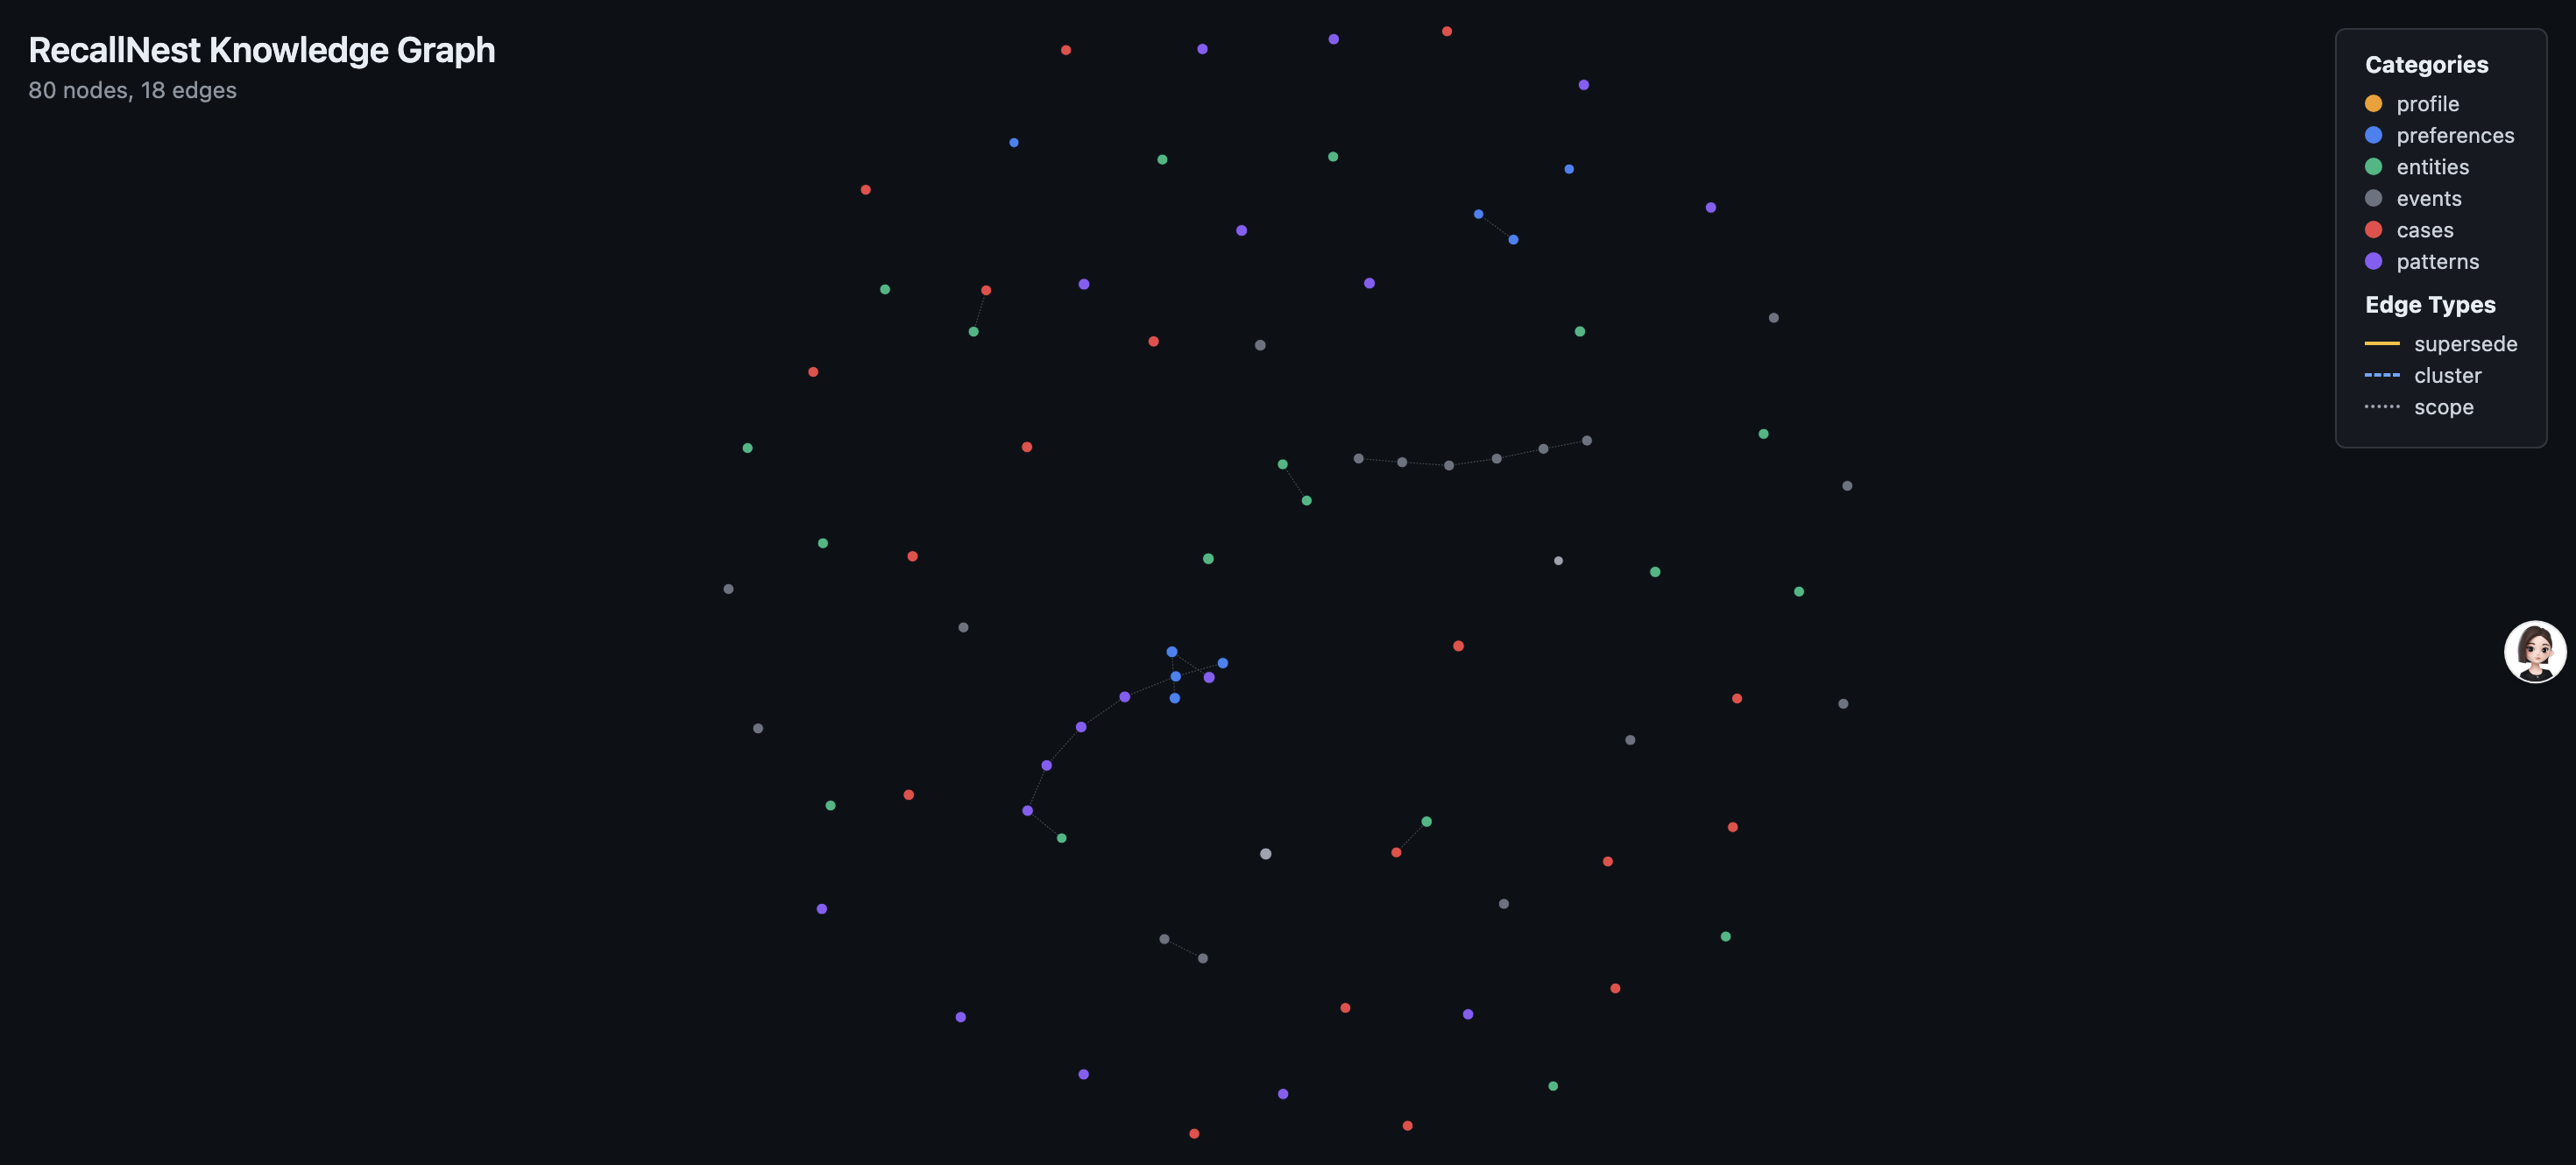
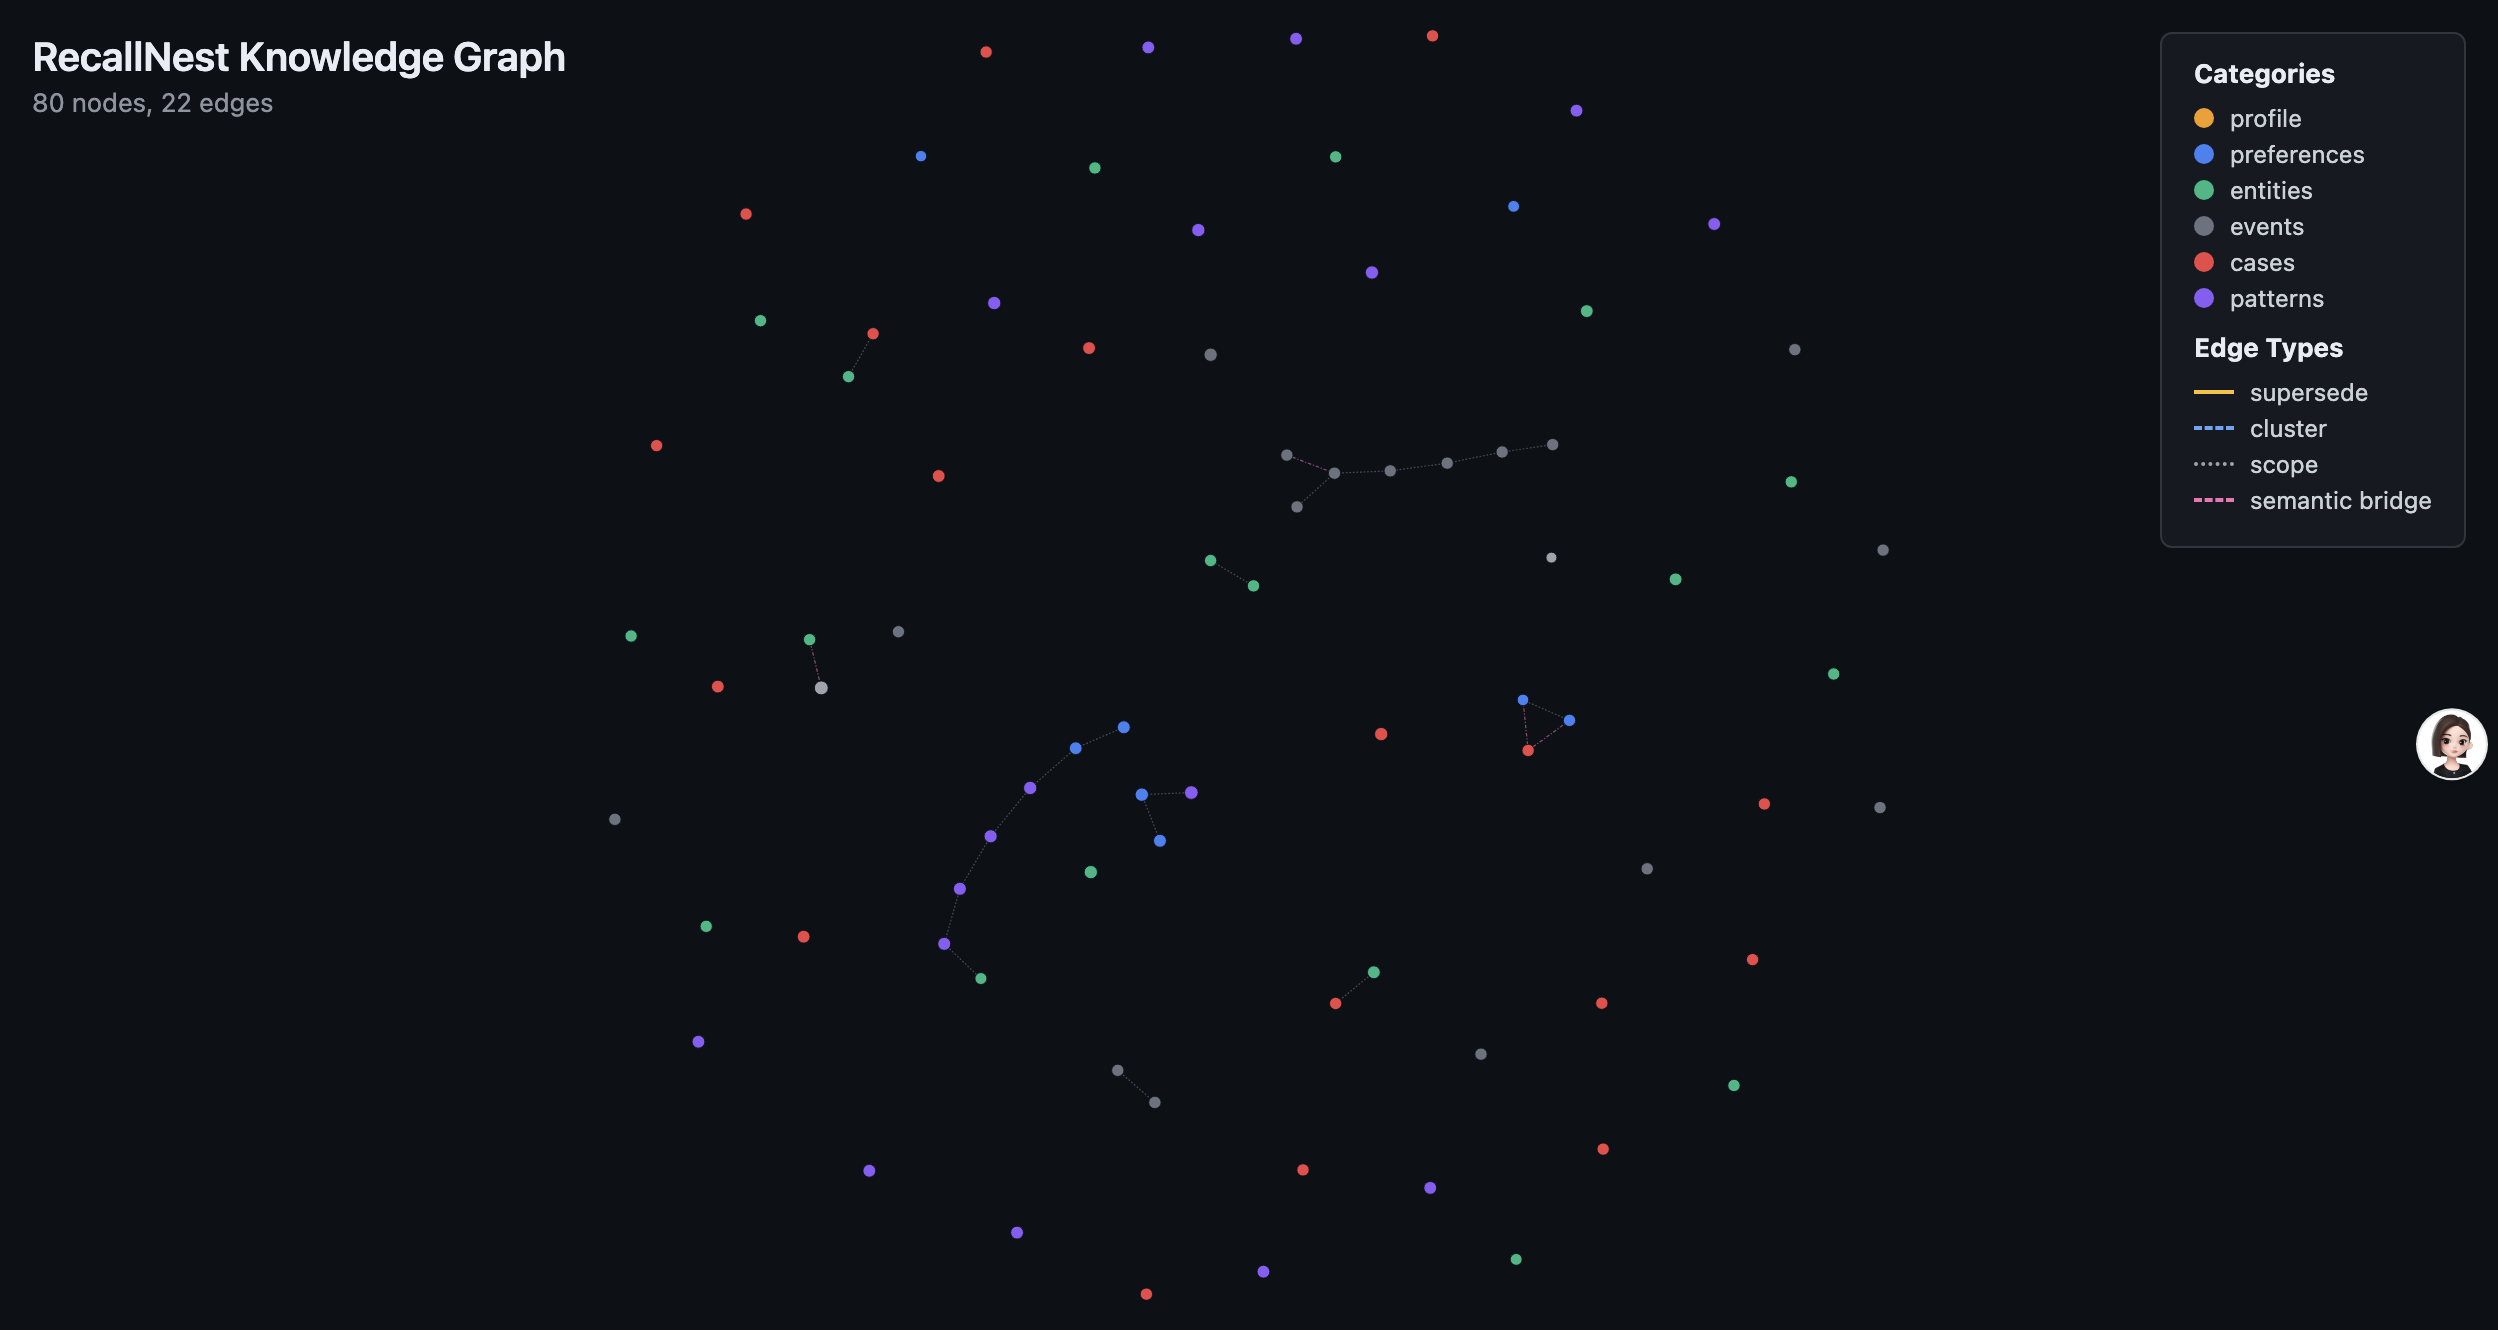
feat: cross-scope semantic bridges in knowledge graph
Add semantic bridge edges that connect memory entries across different
scopes when their vector similarity exceeds 0.65. Reveals hidden
cross-domain knowledge connections (e.g., a preference in one project
linking to a real case in another).

- Add getVectors() batch method to MemoryStore (single LanceDB query)
- Semantic bridge computation in buildMemoryGraph with top-30 cap
- Pink dash-dot edge style (#f472b6) + legend entry
- 7 new tests covering bridge creation, same-scope exclusion, threshold, cap
- Real data: 4 bridges found across 80 nodes (轮巡决策↔对话, OpenClaw偏好↔案例, etc.)

diff --git a/src/__tests__/graph-export.test.ts b/src/__tests__/graph-export.test.ts
@@ -35,10 +35,19 @@ function makeEntry(overrides: Partial<MemoryEntry> & { id: string }): MemoryEntr
   };
 }
 
-function createMockStore(entries: MemoryEntry[]): Pick<MemoryStore, "list"> {
+function createMockStore(entries: MemoryEntry[]): Pick<MemoryStore, "list"> & Partial<Pick<MemoryStore, "getVectors">> {
   return {
     async list() { return entries; },
-  } as Pick<MemoryStore, "list">;
+    async getVectors(ids: string[]) {
+      const map = new Map<string, number[]>();
+      for (const e of entries) {
+        if (ids.includes(e.id) && e.vector?.length > 0) {
+          map.set(e.id, e.vector);
+        }
+      }
+      return map;
+    },
+  };
 }
 
 // ---------------------------------------------------------------------------
@@ -366,5 +375,115 @@ describe("formatGraphExportResult", () => {
     expect(result).toContain("Nodes: 0");
     expect(result).toContain("Edges: 0");
     expect(result).toContain("none");
+  });
+
+  it("shows semantic bridge count when present", () => {
+    const graph: MemoryGraph = {
+      nodes: [],
+      edges: [
+        { source: "a", target: "b", type: "semantic" },
+        { source: "c", target: "d", type: "semantic" },
+        { source: "e", target: "f", type: "scope" },
+      ],
+    };
+    const result = formatGraphExportResult("/tmp/test.html", graph);
+    expect(result).toContain("2 semantic bridges");
+  });
+});
+
+// ---------------------------------------------------------------------------
+// Cross-Scope Semantic Bridges
+// ---------------------------------------------------------------------------
+
+describe("cross-scope semantic bridges", () => {
+  // Helper: create a normalized vector in a specific direction
+  function dirVector(index: number, dim = 8): number[] {
+    const v = new Array(dim).fill(0);
+    v[index] = 1;
+    return v;
+  }
+
+  // Helper: create a vector that's a blend (for high cosine similarity)
+  function blendVector(a: number[], b: number[], ratio = 0.5): number[] {
+    const v = a.map((_, i) => a[i] * ratio + b[i] * (1 - ratio));
+    const norm = Math.sqrt(v.reduce((s, x) => s + x * x, 0));
+    return v.map(x => x / (norm || 1));
+  }
+
+  it("creates semantic edges between similar entries in different scopes", async () => {
+    const sharedVec = dirVector(0);
+    const entries = [
+      makeEntry({ id: "s1-a", scope: "scope-writing", vector: sharedVec, text: "good titles need cognitive gap" }),
+      makeEntry({ id: "s2-a", scope: "scope-ai-tools", vector: sharedVec, text: "prompts need surprise element" }),
+    ];
+    const store = createMockStore(entries);
+    const graph = await buildMemoryGraph(store, { maxNodes: 100 });
+
+    const semanticEdges = graph.edges.filter(e => e.type === "semantic");
+    expect(semanticEdges.length).toBe(1);
+    expect(semanticEdges[0].source).toBe("s1-a");
+    expect(semanticEdges[0].target).toBe("s2-a");
+  });
+
+  it("does NOT create semantic edges within the same scope", async () => {
+    const sharedVec = dirVector(0);
+    const entries = [
+      makeEntry({ id: "same-1", scope: "project:alpha", vector: sharedVec }),
+      makeEntry({ id: "same-2", scope: "project:alpha", vector: sharedVec }),
+    ];
+    const store = createMockStore(entries);
+    const graph = await buildMemoryGraph(store, { maxNodes: 100 });
+
+    const semanticEdges = graph.edges.filter(e => e.type === "semantic");
+    expect(semanticEdges.length).toBe(0);
+  });
+
+  it("does NOT create edges below similarity threshold", async () => {
+    const entries = [
+      makeEntry({ id: "far-1", scope: "scope-a", vector: dirVector(0) }),
+      makeEntry({ id: "far-2", scope: "scope-b", vector: dirVector(3) }),  // orthogonal
+    ];
+    const store = createMockStore(entries);
+    const graph = await buildMemoryGraph(store, { maxNodes: 100 });
+
+    const semanticEdges = graph.edges.filter(e => e.type === "semantic");
+    expect(semanticEdges.length).toBe(0);
+  });
+
+  it("caps semantic edges at MAX_SEMANTIC_EDGES (top-N by similarity)", async () => {
+    // Create 40 entries across 2 scopes with identical vectors → would generate
+    // 20*20=400 cross-scope pairs, but should be capped at 30
+    const vec = dirVector(0);
+    const entries: MemoryEntry[] = [];
+    for (let i = 0; i < 20; i++) {
+      entries.push(makeEntry({ id: `a-${i}`, scope: "scope-alpha", vector: vec }));
+      entries.push(makeEntry({ id: `b-${i}`, scope: "scope-beta", vector: vec }));
+    }
+    const store = createMockStore(entries);
+    const graph = await buildMemoryGraph(store, { maxNodes: 100 });
+
+    const semanticEdges = graph.edges.filter(e => e.type === "semantic");
+    expect(semanticEdges.length).toBeLessThanOrEqual(30);
+    expect(semanticEdges.length).toBeGreaterThan(0);
+  });
+
+  it("handles entries with empty vectors gracefully", async () => {
+    const entries = [
+      makeEntry({ id: "no-vec-1", scope: "scope-a", vector: [] }),
+      makeEntry({ id: "no-vec-2", scope: "scope-b", vector: [] }),
+      makeEntry({ id: "has-vec", scope: "scope-c", vector: dirVector(0) }),
+    ];
+    const store = createMockStore(entries);
+    const graph = await buildMemoryGraph(store, { maxNodes: 100 });
+
+    const semanticEdges = graph.edges.filter(e => e.type === "semantic");
+    expect(semanticEdges.length).toBe(0);  // no valid pairs
+  });
+
+  it("includes semantic bridge in HTML legend", () => {
+    const graph: MemoryGraph = { nodes: [], edges: [] };
+    const html = renderGraphHTML(graph);
+    expect(html).toContain("semantic bridge");
+    expect(html).toContain("#f472b6");
   });
 });

diff --git a/src/graph-export.ts b/src/graph-export.ts
@@ -8,6 +8,7 @@
 
 import type { MemoryEntry, MemoryStore } from "./store.js";
 import { parseEvolution, isActiveMemory } from "./memory-evolution.js";
+import { cosineSimilarity } from "./multi-vector.js";
 import { writeFileSync, mkdirSync, existsSync } from "node:fs";
 import { join, resolve } from "node:path";
 
@@ -28,7 +29,7 @@ export interface GraphNode {
 export interface GraphEdge {
   source: string;
   target: string;
-  type: "supersede" | "consolidation" | "cluster" | "scope";
+  type: "supersede" | "consolidation" | "cluster" | "scope" | "semantic";
 }
 
 export interface MemoryGraph {
@@ -134,7 +135,7 @@ function selectDiverseNodes(entries: MemoryEntry[], maxNodes: number): MemoryEnt
 // ---------------------------------------------------------------------------
 
 export async function buildMemoryGraph(
-  store: Pick<MemoryStore, "list">,
+  store: Pick<MemoryStore, "list"> & Partial<Pick<MemoryStore, "getVectors">>,
   options?: GraphExportOptions,
 ): Promise<MemoryGraph> {
   const maxNodes = options?.maxNodes ?? 200;
@@ -217,7 +218,42 @@ export async function buildMemoryGraph(
     }
   }
 
-  // 7. Deduplicate edges
+  // 7. Cross-scope semantic bridges — connect entries from DIFFERENT scopes
+  //    that are semantically similar (cosine ≥ 0.65). This reveals hidden
+  //    cross-domain knowledge connections that the user's interdisciplinary
+  //    thinking creates but explicit metadata doesn't capture.
+  //    Vectors must be fetched separately since list() omits them for perf.
+  const SEMANTIC_BRIDGE_THRESHOLD = 0.65;
+  const MAX_SEMANTIC_EDGES = 30;  // cap to avoid visual clutter
+
+  if (store.getVectors) {
+    const vectorMap = await store.getVectors(selected.map(e => e.id));
+    const semanticCandidates: { source: string; target: string; sim: number }[] = [];
+
+    for (let i = 0; i < selected.length; i++) {
+      for (let j = i + 1; j < selected.length; j++) {
+        const a = selected[i];
+        const b = selected[j];
+        // Only cross-scope — same-scope connections are handled by scope chains
+        if (a.scope === b.scope) continue;
+        const vecA = vectorMap.get(a.id);
+        const vecB = vectorMap.get(b.id);
+        if (!vecA || !vecB) continue;
+        const sim = cosineSimilarity(vecA, vecB);
+        if (sim >= SEMANTIC_BRIDGE_THRESHOLD) {
+          semanticCandidates.push({ source: a.id, target: b.id, sim });
+        }
+      }
+    }
+
+    // Keep top-N by similarity to avoid clutter
+    semanticCandidates.sort((a, b) => b.sim - a.sim);
+    for (const { source, target } of semanticCandidates.slice(0, MAX_SEMANTIC_EDGES)) {
+      edges.push({ source, target, type: "semantic" });
+    }
+  }
+
+  // 8. Deduplicate edges
   const edgeKey = (e: GraphEdge) => `${e.source}|${e.target}|${e.type}`;
   const seen = new Set<string>();
   const uniqueEdges: GraphEdge[] = [];
@@ -343,6 +379,7 @@ export function renderGraphHTML(graph: MemoryGraph): string {
   <div class="legend-item"><div class="legend-line"></div><span>supersede</span></div>
   <div class="legend-item"><div class="legend-line dashed"></div><span>cluster</span></div>
   <div class="legend-item"><div class="legend-line dotted"></div><span>scope</span></div>
+  <div class="legend-item"><div class="legend-line" style="border-top-color:#f472b6;border-top-style:dashed"></div><span>semantic bridge</span></div>
 </div>
 
 <div id="tooltip">
@@ -378,18 +415,21 @@ function edgeStroke(type) {
   if (type === "supersede") return "";
   if (type === "cluster") return "8,4";
   if (type === "consolidation") return "";
+  if (type === "semantic") return "6,3,2,3";  // dash-dot pattern
   return "3,3";
 }
 
 function edgeColor(type) {
   if (type === "supersede" || type === "consolidation") return "#fbbf24";
   if (type === "cluster") return "#60a5fa";
+  if (type === "semantic") return "#f472b6";
   return "#9ca3af";
 }
 
 function edgeOpacity(type) {
   if (type === "scope") return 0.4;
   if (type === "cluster") return 0.65;
+  if (type === "semantic") return 0.6;
   return 0.7;
 }
 
@@ -561,9 +601,19 @@ export function formatGraphExportResult(path: string, graph: MemoryGraph): strin
     .map(([cat, count]) => `${cat}(${count})`)
     .join(", ");
 
+  // Count edge types
+  const edgeTypeCounts = new Map<string, number>();
+  for (const edge of graph.edges) {
+    edgeTypeCounts.set(edge.type, (edgeTypeCounts.get(edge.type) ?? 0) + 1);
+  }
+  const semanticCount = edgeTypeCounts.get("semantic") ?? 0;
+  const edgeSummary = semanticCount > 0
+    ? ` (${semanticCount} semantic bridges)`
+    : "";
+
   return [
     `Knowledge Graph exported: ${path}`,
-    `Nodes: ${graph.nodes.length} | Edges: ${graph.edges.length}`,
+    `Nodes: ${graph.nodes.length} | Edges: ${graph.edges.length}${edgeSummary}`,
     `Categories: ${catSummary || "none"}`,
   ].join("\n");
 }

diff --git a/src/store.ts b/src/store.ts
@@ -716,6 +716,30 @@ export class MemoryStore {
     };
   }
 
+  /**
+   * Batch-fetch vectors for a list of entry IDs.
+   * Used by graph-export for cross-scope semantic bridge computation.
+   * Single LanceDB query — much faster than N individual getById calls.
+   */
+  async getVectors(ids: string[]): Promise<Map<string, number[]>> {
+    await this.ensureInitialized();
+    if (ids.length === 0) return new Map();
+
+    const conditions = ids.map(id => `id = '${escapeSqlLiteral(id)}'`).join(" OR ");
+    const rows = await this.table!.query()
+      .select(["id", "vector"])
+      .where(conditions)
+      .limit(ids.length)
+      .toArray();
+
+    const result = new Map<string, number[]>();
+    for (const row of rows) {
+      const vec = Array.from(row.vector as Iterable<number>);
+      if (vec.length > 0) result.set(row.id as string, vec);
+    }
+    return result;
+  }
+
   async stats(scopeFilter?: string[]): Promise<{
     totalCount: number;
     scopeCounts: Record<string, number>;